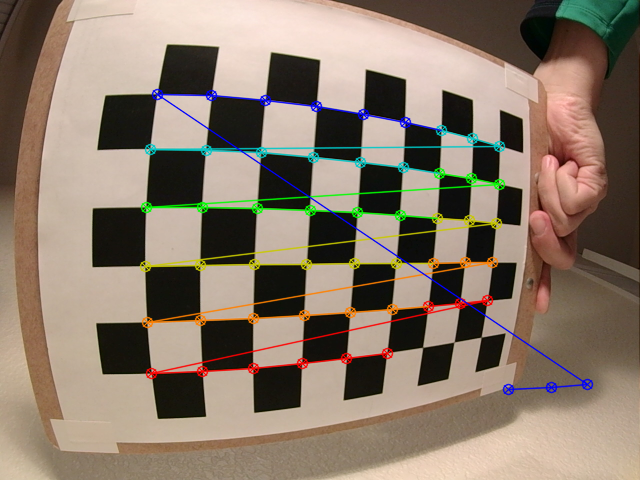
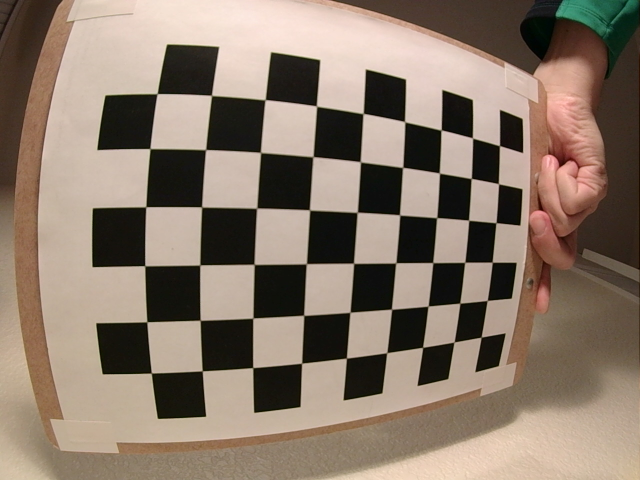
Refactored task_4 Fixed drawChessboard output bug Fixed non-matched point draw in task_3

diff --git a/code/task_3/main.py b/code/task_3/main.py
@@ -1,0 +1,148 @@
+import utils
+import numpy as np
+import cv2
+import matplotlib
+import const
+from collections import namedtuple
+import math
+import os
+import statistics
+from matplotlib import pyplot as plt
+
+
+def local_nms(keypoints, radius):
+    """Performs non-maxima suppression.
+
+    Args:
+        keypoints: List of feature keypoints
+        radius: Non-maxima suppression radius
+
+    Returns:
+        List of local maxima keypoints
+    """
+    maximas = []
+    _keypoints = keypoints.copy()
+
+    for k in keypoints:
+        is_max = True
+        for l in _keypoints:
+            if math.dist(k.pt, l.pt) <= radius:
+                if l.response > k.response:
+                    _keypoints.pop(0)
+                    is_max = False
+                    break
+        if is_max:
+            maximas.append(k)
+
+    return maximas
+
+
+def filter_matches(keypoints_l, keypoints_r, matches, fundamental, config_params):
+    """Filters matches based on their distance and epipolar error
+
+    Args:
+        keypoints_l: Keypoints from the left image
+        keypoints_r: Keypoints from the right image
+        matches: Matches generated by cv2.BFMatcher
+        fundamental: Fundamental matrix
+        config_params: Set of constants that configures algorithm parameters
+
+    Returns:
+        True matches and keypoints associated with the matches on the left and the right
+    """
+    # Distance based filtering
+    distances = [m.distance for m in matches]
+    mean = statistics.mean(distances)
+    sd = statistics.stdev(distances)
+    dist_matches = [m for m in matches if (mean - sd) < m.distance < (mean + sd)]
+
+    true_matches = []
+    true_keypoints_l = []
+    true_keypoints_r = []
+
+    # Check epipolar constraints
+    for m in dist_matches:
+        # Convert points to homogeneous form
+        x_l, x_r = np.array(keypoints_l[m.queryIdx].pt + (1,)), np.array(keypoints_r[m.trainIdx].pt + (1,))
+
+        # Calculate error
+        error = np.matmul(np.matmul(x_r.T, fundamental), x_l).item()
+        if -config_params.error_limit < error < config_params.error_limit:
+            true_matches.append(m)
+            true_keypoints_l.append(keypoints_l[m.queryIdx])
+            true_keypoints_r.append(keypoints_r[m.trainIdx])
+
+    return true_matches, true_keypoints_l, true_keypoints_r
+
+
+def detect_keypoints(image_l, image_r, config_params):
+    """Detect keypoints from a pair of images"""
+
+    # Detect keypoints
+    orb = cv2.ORB_create()
+    keypoints_l = orb.detect(image_l, None)
+    keypoints_r = orb.detect(image_r, None)
+
+    # Suppress local non-maximas
+    keypoints_l = local_nms(keypoints_l, config_params.nms_radius)
+    keypoints_r = local_nms(keypoints_r, config_params.nms_radius)
+
+    # Generate descriptors
+    keypoints_l, descriptors_l = orb.compute(image_l, keypoints_l)
+    keypoints_r, descriptors_r = orb.compute(image_r, keypoints_r)
+
+    return keypoints_l, descriptors_l, keypoints_r, descriptors_r
+
+
+def detect_matches(kpl_max, kpr_max, des_l, des_r, stereo_calibration_params, config_params):
+    """Generates matches from keypoints and descriptors"""
+    bf = cv2.BFMatcher(cv2.NORM_HAMMING, crossCheck=True)
+    matches = bf.match(des_l, des_r)
+
+    true_matches, true_kpl, true_kpr = filter_matches(kpl_max, kpr_max, matches, stereo_calibration_params.F,
+                                                      config_params)
+
+    return true_matches, true_kpl, true_kpr
+
+
+def triangulate_points(stereo_rect_params, keypoints_l, keypoints_r):
+    ptl = np.array([[p.pt] for p in keypoints_l])
+    ptr = np.array([[p.pt] for p in keypoints_r])
+
+    points = cv2.triangulatePoints(stereo_rect_params.Pl, stereo_rect_params.Pr, ptl, ptr)
+    cartesian_pts = points[:3] / points[3]
+
+    fig = plt.figure()
+    ax = fig.add_subplot(111, projection='3d')
+    ax.scatter(*cartesian_pts)
+    plt.show()
+
+
+if __name__ == '__main__':
+    ConfigParams = namedtuple('ConfigParams', "error_limit nms_radius")
+    params = ConfigParams(1, 6)
+
+    intr = utils.load_intrinsics()
+
+    img_l, img_r = utils.load_img_pair(3)
+    img_l_gray, img_r_gray = cv2.cvtColor(img_l, cv2.COLOR_BGR2GRAY), cv2.cvtColor(img_r, cv2.COLOR_BGR2GRAY)
+
+    # Undistort image
+    img_l_gray = cv2.undistort(img_l_gray, intr.cml, intr.dsl, None)
+    img_r_gray = cv2.undistort(img_r_gray, intr.cmr, intr.dsr, None)
+
+    st_calib, st_rect = utils.load_st_params()
+
+    kpl, dsl, kpr, dsr = detect_keypoints(img_l_gray, img_r_gray, params)
+    pos_matches, pos_kpl, pos_kpr = detect_matches(kpl, kpr, dsl, dsr, st_calib, params)
+
+    kpl_image = cv2.drawKeypoints(img_l_gray, kpl, None)
+    cv2.imwrite(os.path.join(const.DIR_OUT, 'task_3\\kpl_img.png'), kpl_image)
+    kpr_image = cv2.drawKeypoints(img_r_gray, kpr, None)
+    cv2.imwrite(os.path.join(const.DIR_OUT, 'task_3\\kpr_img.png'), kpr_image)
+
+    matched_img = cv2.drawMatches(img_l_gray, kpl, img_r_gray, kpr, pos_matches, None,
+                                  flags=cv2.DRAW_MATCHES_FLAGS_NOT_DRAW_SINGLE_POINTS)
+    cv2.imwrite(os.path.join(const.DIR_OUT, 'task_3\\match_img.png'), matched_img)
+
+    triangulate_points(st_rect, pos_kpl, pos_kpr)

diff --git a/code/task_2/main.py b/code/task_2/main.py
@@ -38,13 +38,13 @@ def st_calib_rect(img_l, img_r, intr):
     st_calib = StereoCalibParams(R, T, E, F)
 
     # Extract stereo rectification parameters
-    Rl, Rr, Pl, Pr, Q, roi_l, roi_r = cv2.stereoRectify(intr.cml, intr.dsl, intr.cmr, intr.dsr, img_size, R, T)
+    Rl, Rr, Pl, Pr, Q, _, _ = cv2.stereoRectify(intr.cml, intr.dsl, intr.cmr, intr.dsr, img_size, R, T)
     st_rect = StereoRectParams(Rl, Rr, Pl, Pr, Q)
 
-    return st_calib, st_rect, roi_l, roi_r
+    return st_calib, st_rect
 
 
-def generate_output(image_l, image_r, intrinsics, stereo_calib_params, roi_l, roi_r, stereo_rect_params, size_grid):
+def generate_output(image_l, image_r, intrinsics, stereo_calib_params, stereo_rect_params, size_grid):
     # In the following section, we verify the calibration by triangulating and plotting these points in 3D. We begin by
     # undistorting the extracted corners.
     #
@@ -89,12 +89,12 @@ def generate_output(image_l, image_r, intrinsics, stereo_calib_params, roi_l, ro
     _, crn_rect_r = cv2.findChessboardCorners(image_r_rect, size_grid)
 
     # Draw chessboard corners
-    image_l = cv2.drawChessboardCorners(image_l.copy(), const.SIZE_GRID, crn_l, True)
-    image_r = cv2.drawChessboardCorners(image_r.copy(), const.SIZE_GRID, crn_r, True)
-    image_l_undist = cv2.drawChessboardCorners(image_l_undist.copy(), const.SIZE_GRID, crn_undist_l, True)
-    image_r_undist = cv2.drawChessboardCorners(image_r_undist.copy(), const.SIZE_GRID, crn_undist_r, True)
-    image_l_rect = cv2.drawChessboardCorners(image_l_rect.copy(), const.SIZE_GRID, crn_rect_l, True)
-    image_r_rect = cv2.drawChessboardCorners(image_r_rect.copy(), const.SIZE_GRID, crn_rect_r, True)
+    image_l = cv2.drawChessboardCorners(image_l.copy(), size_grid, crn_l, True)
+    image_r = cv2.drawChessboardCorners(image_r.copy(), size_grid, crn_r, True)
+    image_l_undist = cv2.drawChessboardCorners(image_l_undist.copy(), size_grid, crn_undist_l, True)
+    image_r_undist = cv2.drawChessboardCorners(image_r_undist.copy(), size_grid, crn_undist_r, True)
+    image_l_rect = cv2.drawChessboardCorners(image_l_rect.copy(), size_grid, crn_rect_l, True)
+    image_r_rect = cv2.drawChessboardCorners(image_r_rect.copy(), size_grid, crn_rect_r, True)
 
     # Write files
     cv2.imwrite(os.path.join(const.DIR_OUT, 'image_l.png'), image_l)
@@ -116,8 +116,8 @@ if __name__ == '__main__':
     image_left, image_right = utils.load_img_pair(2)
     intr = utils.load_intrinsics()
 
-    st_calib, st_rect, roi_l, roi_r = st_calib_rect(image_left, image_right, intr)
-    generate_output(image_left, image_right, intr, st_calib, roi_l, roi_r, st_rect, const.SIZE_GRID)
+    st_calib, st_rect = st_calib_rect(image_left, image_right, intr)
+    generate_output(image_left, image_right, intr, st_calib, st_rect, const.SIZE_GRID)
 
     utils.write_arrays(os.path.join(const.DIR_PARAMS, 'stereo_calibration.xml'),
                        {

diff --git a/code/task_1/main.py b/code/task_1/main.py
@@ -5,30 +5,6 @@ import cv2
 import numpy as np
 
 
-def load_img_batch(img_dir=const.DIR_IMG):
-    """Extracts left and right images from directory. This function is a batch version of utils.load_img_pair.
-
-    Args:
-        img_dir: Path to the image directory
-
-    Returns:
-        Two arrays containing images from the left and right cameras respectively
-    """
-    # Get list of files
-    base_path = os.path.join(img_dir, 'task_1')
-    files = [(os.path.join(base_path, x), x) for x in os.listdir(base_path)]
-    
-    # Sort files and load images
-    images_l, images_r = [], []
-    for file in files:
-        if file[1][0] == 'l':
-            images_l.append(cv2.imread(file[0]))
-        else:
-            images_r.append(cv2.imread(file[0]))
-
-    return images_l, images_r
-
-
 def extract_crn_2d_3d_batch(images_l, images_r, size_grid=const.SIZE_GRID):
     """Detects chessboard corners and creates 3D object points.
 
@@ -90,11 +66,10 @@ def write_output(image_l, image_r, corners_l, corners_r, cam_intrinsic_l, distor
         distortion_r: Distortion coefficients of the right camera
     """
     # Extract and undistort images
-    im2_l_backup, im2_r_backup = np.copy(image_l), np.copy(image_r)
-    im2_l_chk = cv2.drawChessboardCorners(image_l, const.SIZE_GRID, corners_l[3], True)
-    im2_r_chk = cv2.drawChessboardCorners(image_r, const.SIZE_GRID, corners_r[3], True)
-    im2_l_undist = cv2.undistort(im2_l_backup, cam_intrinsic_l, distortion_l, None)
-    im2_r_undist = cv2.undistort(im2_r_backup, cam_intrinsic_r, distortion_r, None)
+    im2_l_chk = cv2.drawChessboardCorners(np.copy(image_l), const.SIZE_GRID, corners_l, True)
+    im2_r_chk = cv2.drawChessboardCorners(np.copy(image_r), const.SIZE_GRID, corners_r, True)
+    im2_l_undist = cv2.undistort(np.copy(image_l), cam_intrinsic_l, distortion_l, None)
+    im2_r_undist = cv2.undistort(np.copy(image_r), cam_intrinsic_r, distortion_r, None)
 
     # Write files
     cv2.imwrite(os.path.join(const.DIR_OUT, 'task_1\\left_2.png'), image_l)
@@ -107,7 +82,7 @@ def write_output(image_l, image_r, corners_l, corners_r, cam_intrinsic_l, distor
 
 def main():
     # Load images
-    img_l, img_r = load_img_batch()
+    img_l, img_r = utils.load_img_batch(1)
     img_shape = img_l[0].shape[:2]
 
     # Extract point correspondences and calibrate the camera
@@ -122,7 +97,7 @@ def main():
     utils.write_arrays(os.path.join(const.DIR_PARAMS, 'left_camera_intrinsics.xml'),
                        {'cml': cml, 'dsl': dsl})
     utils.write_arrays(os.path.join(const.DIR_PARAMS, 'right_camera_intrinsics.xml'),
-                       {'cmr': cml, 'dsr': dsr})
+                       {'cmr': cmr, 'dsr': dsr})
 
 
 if __name__ == '__main__':

diff --git a/utils.py b/utils.py
@@ -1,4 +1,5 @@
 import os
+import os.path
 from collections import namedtuple
 import numpy as np
 from math import radians, tan
@@ -136,20 +137,25 @@ def plot_camera(ax, r=np.identity(3), t=np.zeros((3, 1)), theta_x=45, theta_y=45
     ax.plot(*vertices, color='black')
 
 
-def load_img_pair(task_num, dir_img: str = const.DIR_IMG, indices: tuple = (0, 0)):
+def load_img_pair(task_num, dir_img: str = const.DIR_IMG, indices: tuple = (0, 0), gray=False):
     """Loads chessboard images from left and right cameras.
 
     Args:
         task_num: Task ID
         dir_img: Path to the image directory
-        indices: Indices to select left and right images
+        indices: Indices to select left and right
+        gray: Boolean indicating whether the image is to be loaded as a grayscale image or not
 
     Returns:
         Two NumPy arrays containing image data
     """
+    if gray:
+        color = cv2.IMREAD_GRAYSCALE
+    else:
+        color = cv2.IMREAD_COLOR
     d = ['1', '2', '3_and_4', '3_and_4']
-    img_l = cv2.imread(os.path.join(dir_img, 'task_{0}\\left_{1}.png'.format(d[task_num - 1], indices[0])))
-    img_r = cv2.imread(os.path.join(dir_img, 'task_{0}\\right_{1}.png'.format(d[task_num - 1], indices[1])))
+    img_l = cv2.imread(os.path.join(dir_img, 'task_{0}\\left_{1}.png'.format(d[task_num - 1], indices[0])), color)
+    img_r = cv2.imread(os.path.join(dir_img, 'task_{0}\\right_{1}.png'.format(d[task_num - 1], indices[1])), color)
 
     return img_l, img_r
 
@@ -177,3 +183,30 @@ def extract_crn_2d_3d(img_l, img_r, grid_size=const.SIZE_GRID):
     ), axis=1).astype('float32')
 
     return crn_l, crn_r, obj_pt
+
+
+def load_img_batch(task_num, img_dir=const.DIR_IMG, gray=False):
+    """Extracts left and right images from directory. This function is a batch version of utils.load_img_pair.
+
+    Args:
+        task_num: Task ID
+        img_dir: Path to the image directory
+        gray: Boolean indicating whether the images are to be loaded as grayscale images or not
+
+    Returns:
+        Two arrays containing images from the left and right cameras respectively
+    """
+    # Get list of files
+    d = ['1', '2', '3_and_4', '3_and_4']
+    base_path = os.path.join(img_dir, 'task_{0}'.format(d[task_num - 1]))
+    files = [(os.path.join(base_path, x), x) for x in os.listdir(base_path)]
+
+    # Sort files and load images
+    images_l, images_r = [], []
+    for file in files:
+        if file[1][0] == 'l':
+            images_l.append(cv2.imread(file[0]))
+        else:
+            images_r.append(cv2.imread(file[0]))
+
+    return images_l, images_r

diff --git a/code/task_4/main.py b/code/task_4/main.py
@@ -1,0 +1,71 @@
+import utils
+import cv2
+import const
+import os
+from matplotlib import pyplot as plt
+
+
+def generate_depth_map(img_l, img_r, matcher_params, filter_params):
+    """Generates depth map from left and right views.
+
+
+    """
+    # Create left and right StereoSGBM matchers
+    left_matcher = cv2.StereoSGBM_create(**matcher_params)
+    right_matcher = cv2.ximgproc.createRightMatcher(left_matcher)
+
+    # Create WLS filter for map smoothing
+    disparity_filter = cv2.ximgproc.createDisparityWLSFilter(left_matcher)
+    disparity_filter.setLambda(filter_params['lambda'])
+    disparity_filter.setSigmaColor(filter_params['sigma'])
+
+    # Generate filtered depth map
+    d_l = left_matcher.compute(img_l, img_r).astype('int16')
+    d_r = right_matcher.compute(img_r, img_l).astype('int16')
+    depth_map = disparity_filter.filter(d_l, img_l, None, d_r)
+
+    return depth_map
+
+
+def main():
+    # Parameters
+    matcher_params = {
+        'blockSize': 7,
+        'minDisparity': 0,
+        'numDisparities': 64,
+        'preFilterCap': 63,
+        'uniquenessRatio': 15,
+        'speckleWindowSize': 10,
+        'speckleRange': 1,
+        'disp12MaxDiff': 20,
+        'P1': 8 * 3 * 7 ** 2,
+        'P2': 32 * 3 * 7 ** 2,
+        'mode': cv2.STEREO_SGBM_MODE_SGBM_3WAY
+    }
+
+    filter_params = {
+        'lambda': 70000,
+        'sigma': 1.2
+    }
+
+    # Load images and camera parameters
+    img_l, img_r = utils.load_img_pair(4, indices=(4, 4), gray=True)
+    intr = utils.load_intrinsics()
+    calib, rect = utils.load_st_params()
+
+    # Undistort images
+    img_l = cv2.undistort(img_l, intr.cml, intr.dsl, rect.Pl)
+    img_r = cv2.undistort(img_r, intr.cmr, intr.dsr, rect.Pr)
+
+    # Generate depth map from images
+    depth_map = generate_depth_map(img_l, img_r, matcher_params, filter_params)
+
+    # Write to output
+    cv2.imwrite(os.path.join(const.DIR_OUT, 'task_3\\denoise.png'), depth_map)
+
+    reprojected_image = cv2.reprojectImageTo3D(depth_map, rect.Q)
+
+    fig = plt.figure()
+    ax = fig.add_subplot(111, projection='3d')
+    ax.scatter(*reprojected_image.T)
+    plt.show()
